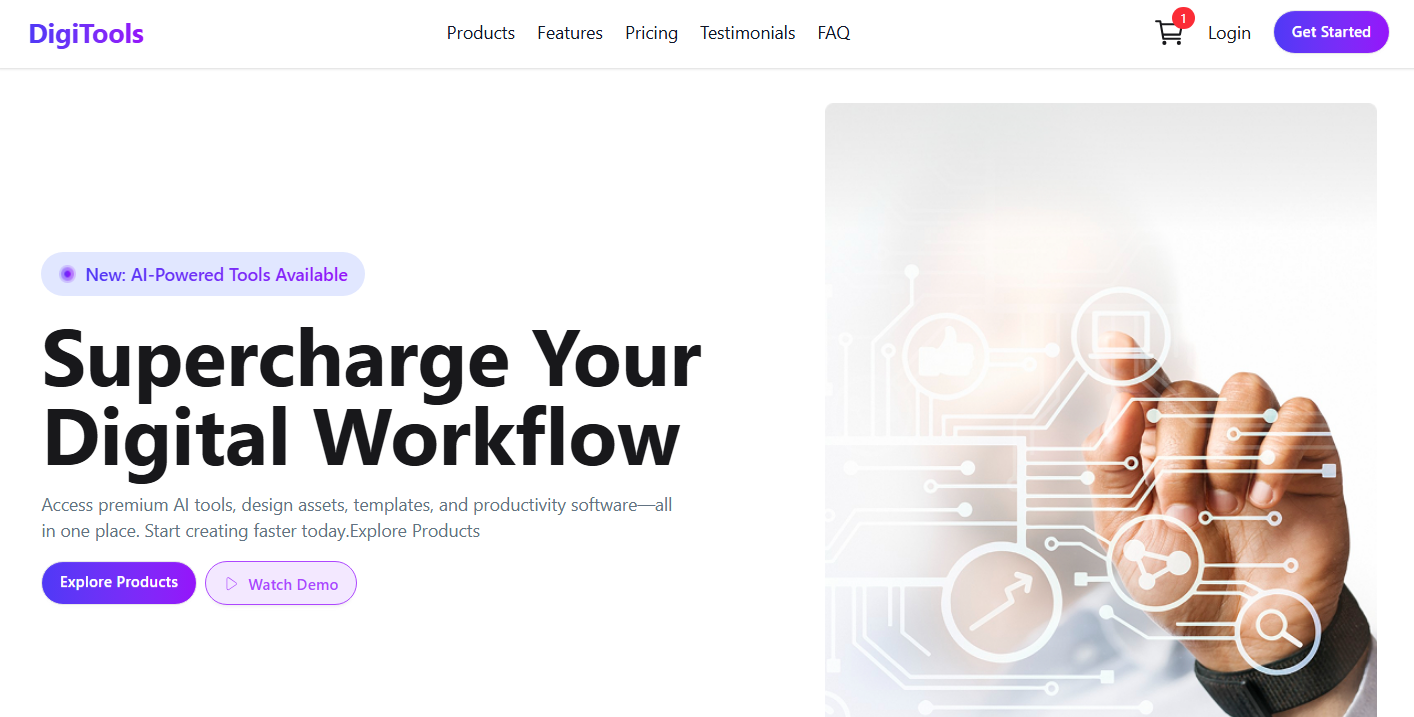
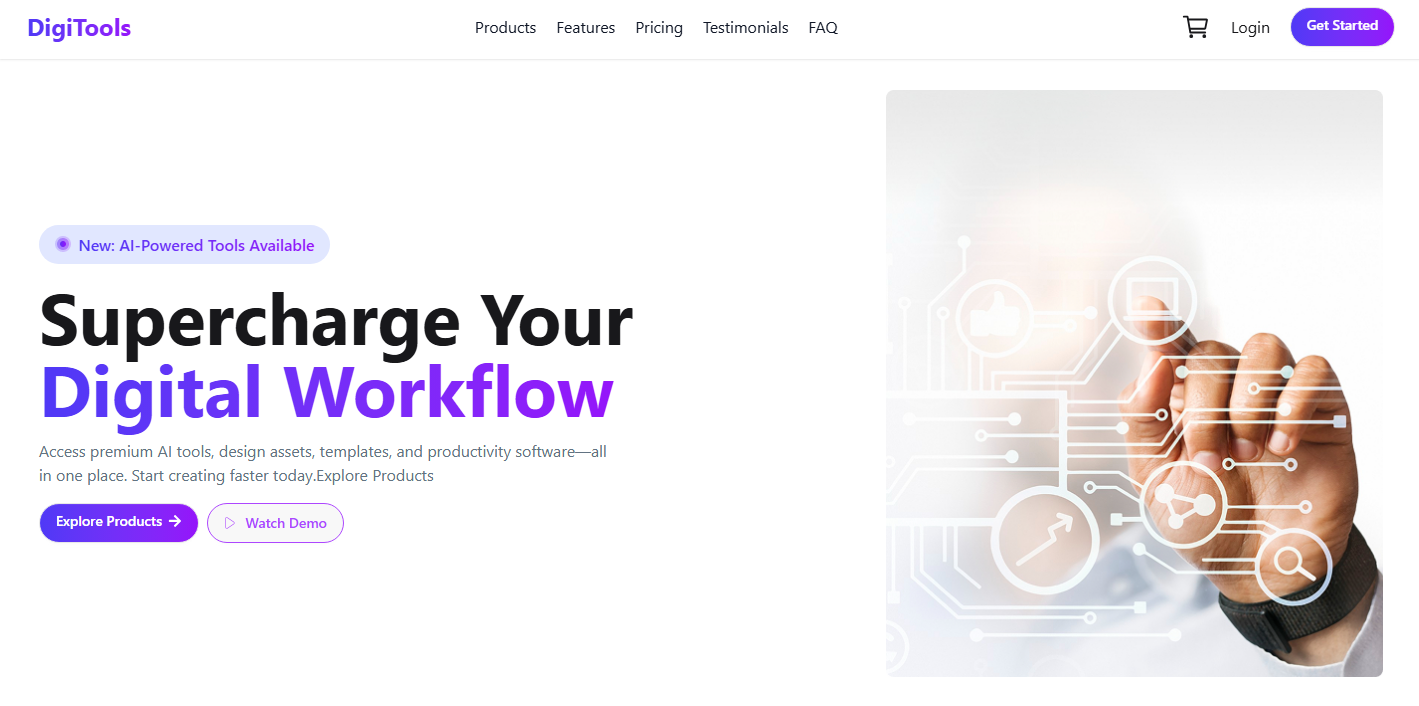
feat: improve UI layout with responsive design, add README preview styles, implement sticky navbar, fix horizontal overflow issue

diff --git a/src/components/Home/Bannar/Bannar.jsx b/src/components/Home/Bannar/Bannar.jsx
@@ -2,6 +2,7 @@ import React from 'react';
 import { CiPlay1 } from 'react-icons/ci';
 import bannerImg from '../../../../public/assets/banner.png'
 import cerImg from '../../../../public/assets/Group 5.png'
+import { FaArrowRight } from 'react-icons/fa';
 
 
 const Bannar = () => {
@@ -15,15 +16,15 @@ const Bannar = () => {
                             New: AI-Powered Tools Available
                         </span>
                     </p>
-                    <h1 className='text-4xl md:text-7xl text-center lg:text-start font-bold'>Supercharge Your <br />Digital Workflow</h1>
+                    <h1 className='text-4xl md:text-7xl text-center lg:text-start font-bold'>Supercharge Your <br /><span className='bg-gradient-to-r from-[#4F39F6] to-[#9514FA] bg-clip-text text-transparent'>Digital Workflow</span></h1>
                     <p className='text-[#627382] text-center lg:text-start'>Access premium AI tools, design assets, templates, and productivity software—all <br />in one place. Start creating faster today.Explore Products
                     </p>
                     <div className='flex flex-row gap-2'>
                         <button className="btn pb-1 font-semibold rounded-full bg-gradient-to-r from-[#4F39F6] to-[#9514FA] text-white hover:opacity-90 transition">
-                            Explore Products
+                            Explore Products <FaArrowRight />
                         </button>
                         <button className="btn flex flex-row items-center gap-2 px-4 py-2 border border-purple-500 rounded-full text-purple-500 hover:bg-purple-100 transition">
-                           <CiPlay1/>
+                            <CiPlay1 />
                             Watch Demo
                         </button>
                     </div>

diff --git a/src/components/Navbar/Navbar.jsx b/src/components/Navbar/Navbar.jsx
@@ -4,7 +4,7 @@ import { IoCartOutline } from 'react-icons/io5'
 const Navbar = ({selectedSellar}) =>  {
         return (
             <>
-                <div className="navbar bg-base-100 shadow-sm">
+                <div className="navbar bg-base-100 shadow-sm sticky top-0 z-50">
                     <div className="flex justify-between items-center w-full px-5">
 
                         <div>

diff --git a/src/App.css b/src/App.css
@@ -1,0 +1,3 @@
+body {
+  overflow-x: hidden;
+}

diff --git a/README.md b/README.md
@@ -4,23 +4,27 @@
 
 **A fully functional e-commerce demo web application** where users can browse products, add them to the cart, and manage their selections easily. Everything is interactive and fully responsive for all devices.
 
-[🌐 Live Demo](https://transcendent-alfajores-5eb958.netlify.app/)
+[🌐 Live Demo](https://digitools-nabdip-dev.netlify.app/)
 
 ---
 
-## 🖼 Web Gallery
-
+## 📸 Project Preview
 A showcase of different parts of the website:
 
-<div style="display: flex; flex-wrap: wrap; gap: 20px; justify-content: center;">
+### 🛍 Product Page
+<img src="./public/assets/web-img/product.png" width="600"/>
 
-<img src="./public/assets/web-img/product.png" alt="Product Screenshot" width="250" /> 
-<img src="./public/assets/web-img/cart.png" alt="Cart Screenshot" width="250" /> 
-<img src="./public/assets/web-img/step.png" alt="Steps Screenshot" width="250" /> 
-<img src="./public/assets/web-img/subsrition.png" alt="Subscription Screenshot" width="250" /> 
-<img src="./public/assets/web-img/footer.png" alt="Footer Screenshot" width="250" />
+### 🛒 Cart Page
+<img src="./public/assets/web-img/cart.png" width="600"/>
 
-</div>
+### ⚙ Steps Page
+<img src="./public/assets/web-img/step.png" width="600"/>
+
+### 💳 Subscription Page
+<img src="./public/assets/web-img/subsrition.png" width="600"/>
+
+### 📌 Footer
+<img src="./public/assets/web-img/footer.png" width="600"/>
 
 *Images are scaled for better visibility and layout.*
 
@@ -48,7 +52,7 @@ A showcase of different parts of the website:
 To run this project locally:
 
 ```bash
-git clone https://github.com/yourusername/your-repo-name.git
+git clone https://github.com/Nabdip-Dev/a6-digiTools.git
 cd your-repo-name
 npm install
 npm start
